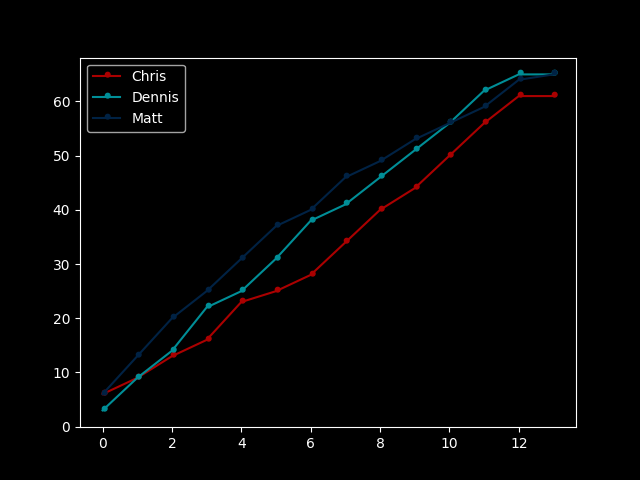
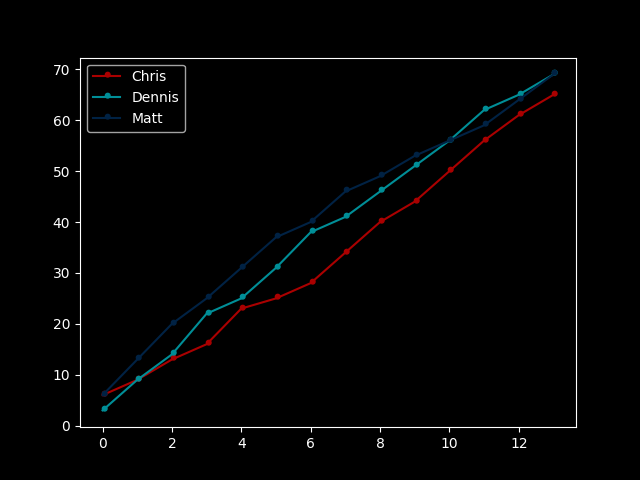
update2021-12-13

diff --git a/nfl-2021/index.html b/nfl-2021/index.html
@@ -259,13 +259,13 @@
         14
        </th>
        <td>
-        0
+        4
        </td>
        <td>
-        0
+        4
        </td>
        <td>
-        1
+        5
        </td>
       </tr>
       <tr>
@@ -273,13 +273,13 @@
         Total
        </th>
        <td>
-        61
-       </td>
-       <td>
         65
        </td>
        <td>
-        65
+        69
+       </td>
+       <td>
+        69
        </td>
       </tr>
      </tbody>
@@ -428,7 +428,7 @@
   <html>
    <body>
     <p id="updates">
-     updated: 2021-12-10 ...version: u57_K
+     updated: 2021-12-13 ...version: h57_x
     </p>
    </body>
   </html>
